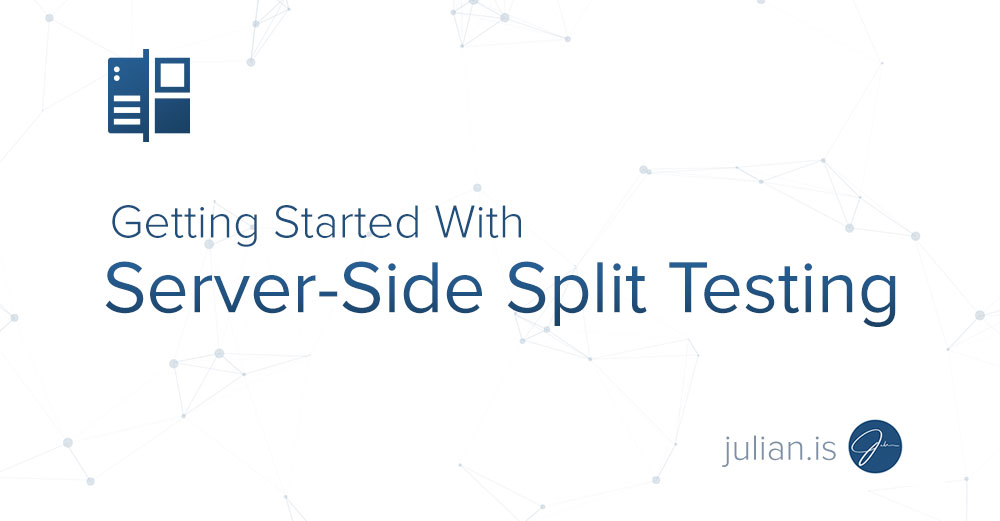
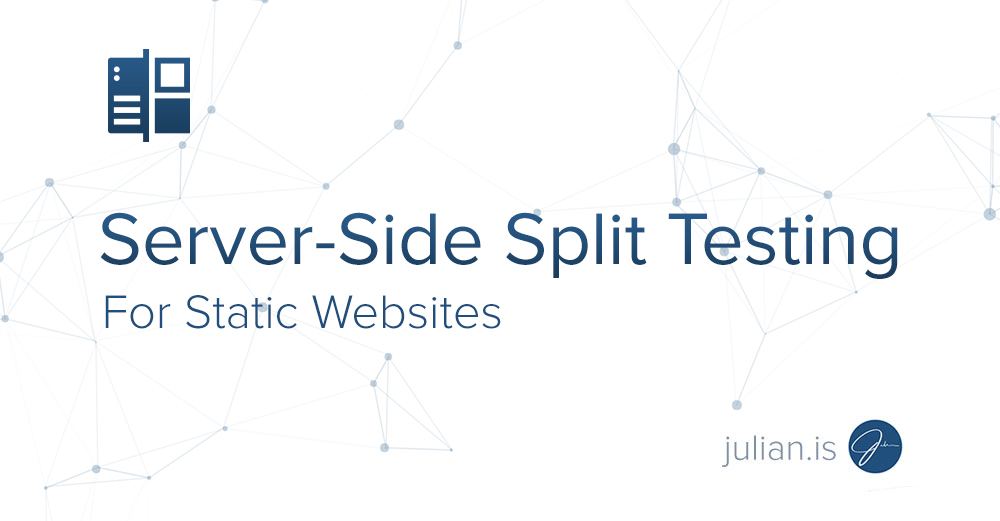
Changed article server-side article name and added links in related articles.

diff --git a/site/content/articles/2018-08-28-server-side-split-testing.md b/site/content/articles/2018-08-28-server-side-split-testing.md
@@ -1,6 +1,6 @@
 ---
-title: "Getting Started With Server-Side Split Testing"
-description:  When to use it, when to avoid it, and setting up your testing stack.
+title: "Server-Side Split Testing for Static Websites"
+description:  When to use, when to avoid, and setting up your A/B testing stack.
 tags: [ABtest, JAMstack, WebPerf, StaticWebsites, CRO]
 lastmod: 2018-10-28
 date: "2018-10-28"
@@ -20,6 +20,8 @@ If you’ve read any of my other articles, it's pretty obvious that I’m obsess
 For the past year, I’ve taken a deep dive into server-side split testing, and I’ll be honest, the obsession is real. A server-side split test is an A/B testing technique where the changes and traffic allocations of any given test take place at the server level before the web page is delivered to the browser. 
 
 What makes this approach attractive are the huge performance gains and the user experience improvements when implemented correctly. Below I’ll run you through some of my findings as well as how to go about setting up your own testing stack.  
+
+(Looking for more on A/B testing? Here's an article I wrote recently on [what I've learned throughout my years of A/B testing](/article/ab-testing-lessons-learned/).)
  
 
 ## The Problem with Client-Side Split Testing 
@@ -104,7 +106,7 @@ In Google Tag Manager, navigate over to your Google Analytics tag and under “M
 	<figcaption>Google Tag Manager Data Layer Fields</figcaption>
 </figure>
 
-You’ll be able to obtain the experiment ID from the info column in Google Optimize once you publish the experiment — it’ll look something along the lines of OX7o3nkrR-ChTxqNJMA1nw.
+You’ll be able to obtain the experiment ID from the info column in Google Optimize once you publish the experiment — it’ll look something along the lines of <i>OX7o3nkrR-ChTxqNJMA1nw</i>.
 
 You won’t be able to easily find the variation ID, but there’s a numeric value assigned to each variation created starting at 0 for the original variation and increases by 1 for subsequent variations as illustrated below.
 
@@ -146,3 +148,4 @@ Add server-side testing to your optimization tool belt, build some cool tests, a
 * [The Beginner’s Guide to Google Optimize](https://conversionxl.com/blog/google-optimize/)
 * [A Step-by-Step Guide: Deploying on Netlify](https://www.netlify.com/blog/2016/09/29/a-step-by-step-guide-deploying-on-netlify/)
 * [A/B testing on AWS CloudFront with Lambda@Edge](https://medium.com/buildit/a-b-testing-on-aws-cloudfront-with-lambda-edge-a22dd82e9d12)
+* [GoodIU.org](https://goodui.org/) — Well curated list of A/B testing patterns for both client and server-side.

diff --git a/site/content/articles/2017-04-25-static-websites-and-jamstack.md b/site/content/articles/2017-04-25-static-websites-and-jamstack.md
@@ -19,7 +19,7 @@ I'm sure that by now you've heard about how static websites are the best thing s
 
 JAMstack stands for JavaScript, APIs, & Markup; it’s an approach to building websites that allows you to have all the web performance and security benefits of a static website along with the dynamic capabilities of a database-driven CMS.
 
-(Related: [Progressive Web Apps — The Next Step in Responsive Web Design](/article/progressive-web-apps/))
+(Related: [Server-Side Split Testing for Static Websites](/article/server-side-split-testing/))
 
 To present this in context, I’ll run you through the problems with dynamic websites, how we’re solving them with a static approach, and how to start putting together your own JAMstack.
 

diff --git a/site/content/articles/2017-08-16-lessons-learned-after-200-ab-tests-on-20-websites.md b/site/content/articles/2017-08-16-lessons-learned-after-200-ab-tests-on-20-websites.md
@@ -19,7 +19,7 @@ Over the past two years I’ve dedicated part of my career to building a convers
 
 In hopes of saving you a few headaches, I've curated a list of some of the most important lessons learned. Enjoy!
 
-(Related: Here’s a [conversion rate optimization & GDD case study](/article/conversion-rate-optimization-case-study/) on one of the websites we tested on.)
+(Related: Here’s a [conversion rate optimization case study](/article/conversion-rate-optimization-case-study/) on one of the websites we tested on.)
 
 <!-- <h3>Table of Contents</h3>
 
